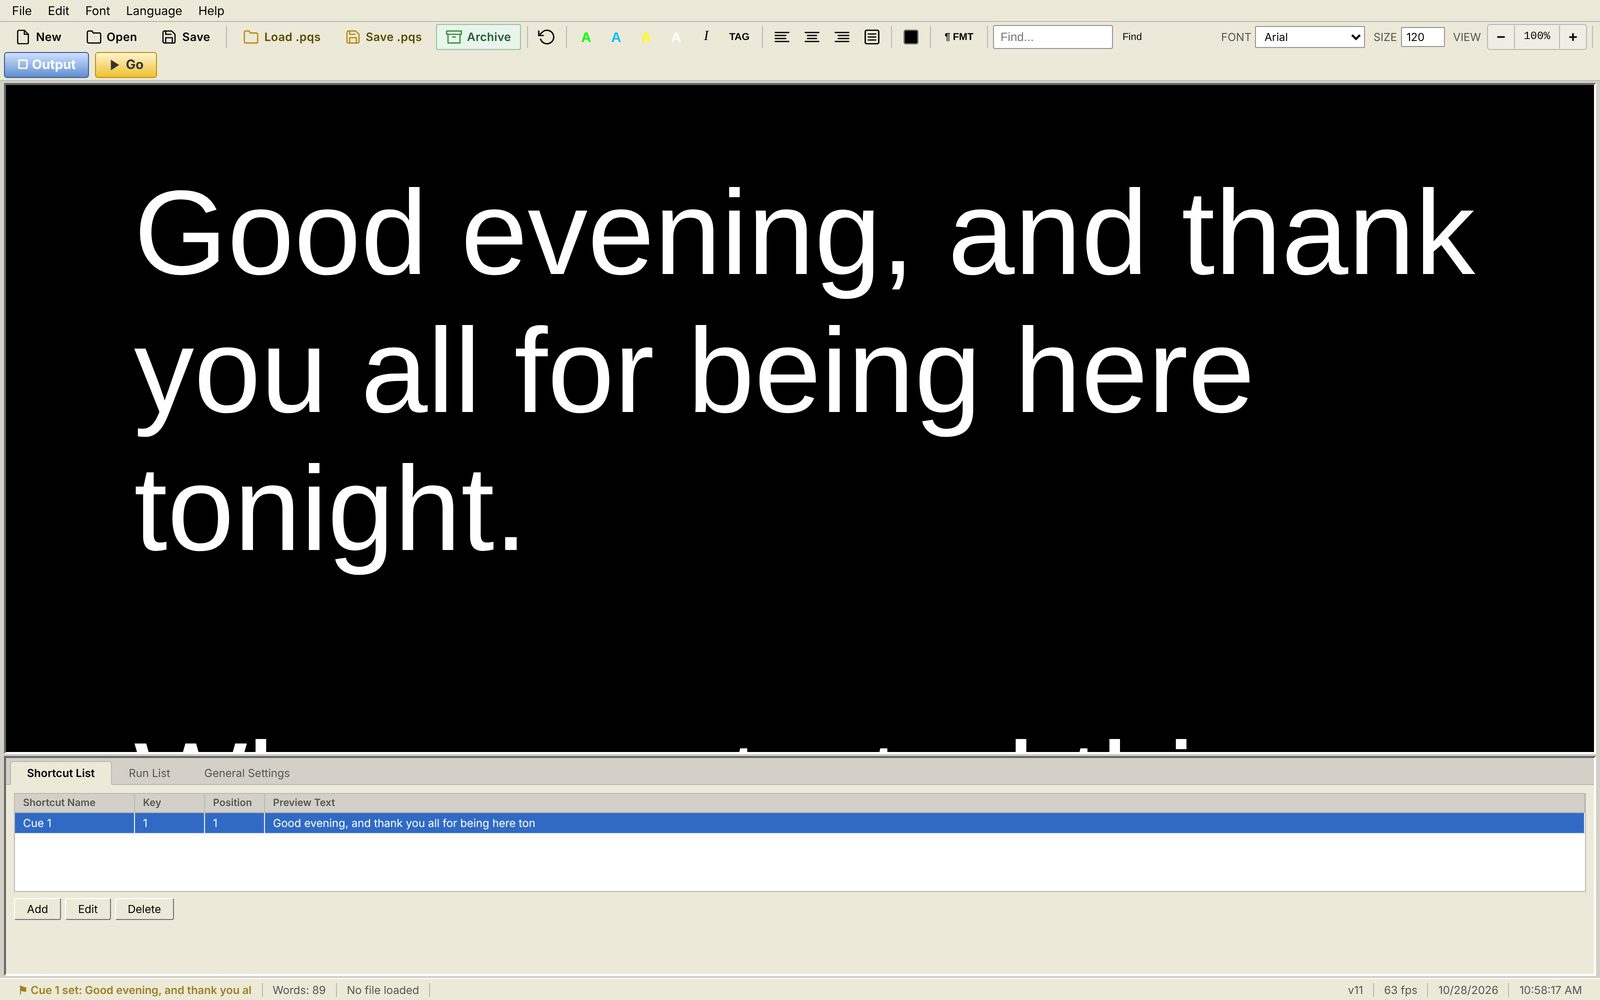
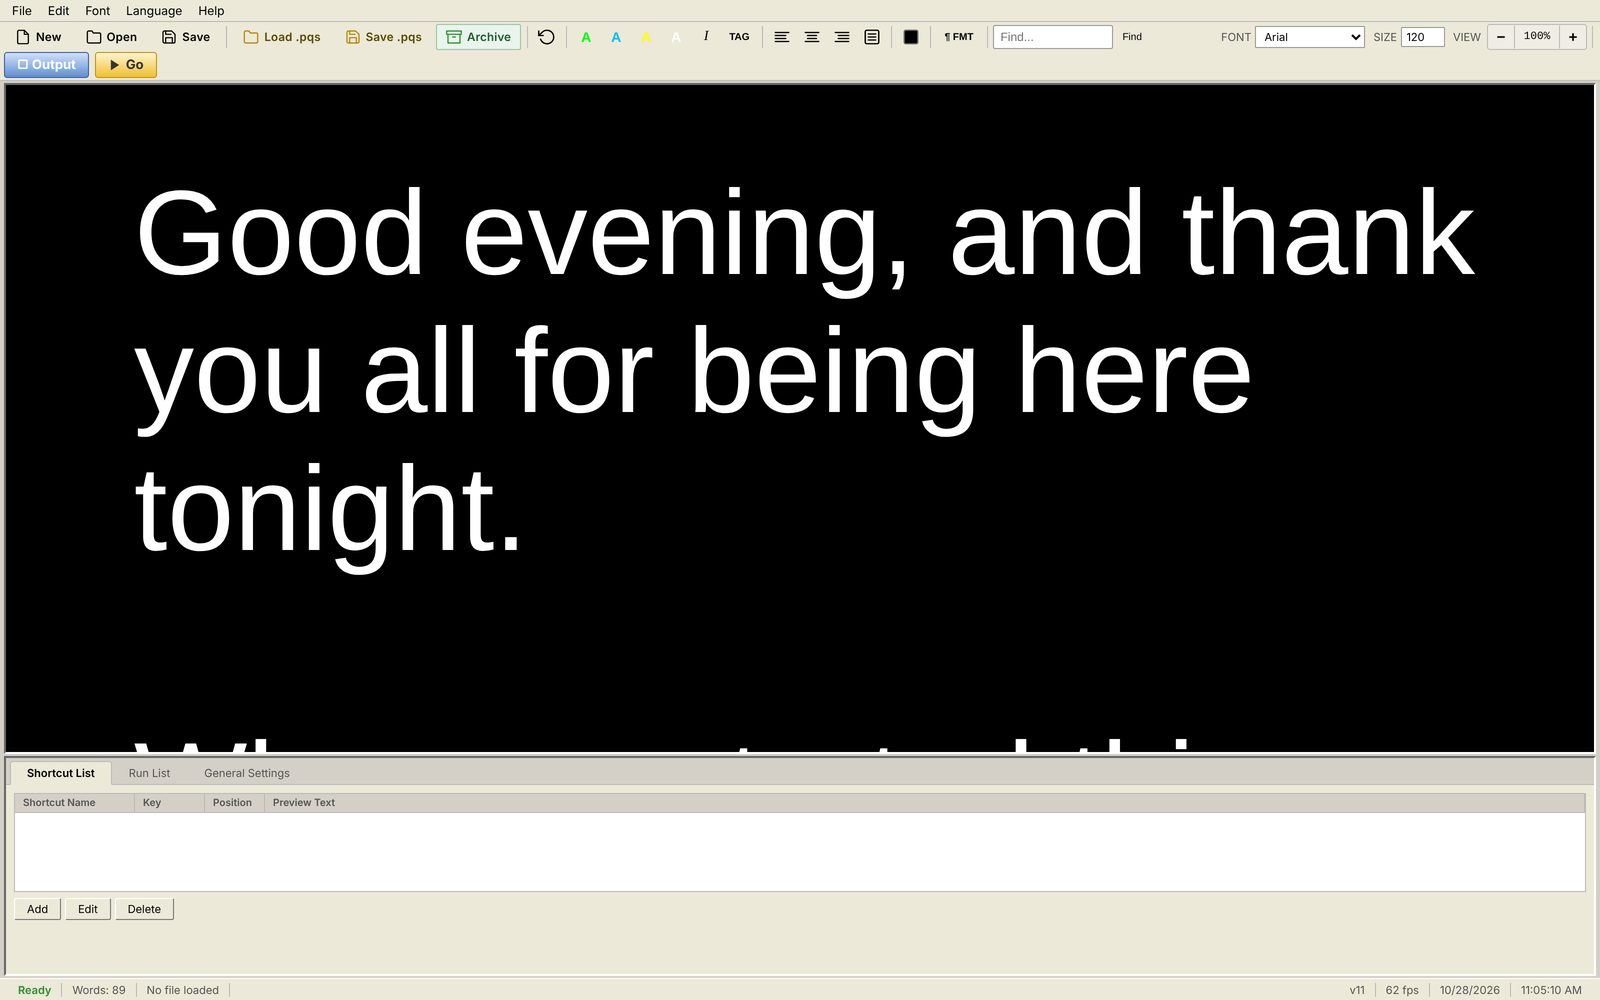
Screenshots without cue; cache-bust image URLs (#5)
Claude-Session: https://claude.ai/code/session_01SW4oYwAA8ZEcmkVZYUBX96

diff --git a/index.html b/index.html
@@ -239,8 +239,8 @@ footer a:hover{color:#fff}
     </div>
 
     <figure class="window">
-      <div class="title"><i></i><i></i><i></i><span>PrompterQ v11 — editor with a cue set on line four</span></div>
-      <img src="img/editor.jpg" width="1600" height="1000" alt="PrompterQ editor: a toolbar with New, Open, Save, Load and Save session, Archive, undo, speaker color tags, alignment, find, font and size controls; below it a black editing field showing white script text at 120 pt; at the bottom the Shortcut List, Run List and General Settings tabs." loading="lazy">
+      <div class="title"><i></i><i></i><i></i><span>PrompterQ v11 — editor</span></div>
+      <img src="img/editor.jpg?v=3" width="1600" height="1000" alt="PrompterQ editor: a toolbar with New, Open, Save, Load and Save session, Archive, undo, speaker color tags, alignment, find, font and size controls; below it a black editing field showing white script text at 120 pt; at the bottom the Shortcut List, Run List and General Settings tabs." loading="lazy">
     </figure>
     <p class="caption">The editor wraps lines exactly where the glass will wrap them. What you see on the desk is what the talent sees, pixel for pixel.</p>
   </div>
@@ -304,11 +304,11 @@ footer a:hover{color:#fff}
 
     <div class="pair">
       <figure>
-        <img src="img/running.jpg" width="1600" height="1000" alt="PrompterQ running: large white script text on a black field with the HUD reading speed 3.0, elapsed 0:15, remaining 0:34, progress 30 percent.">
+        <img src="img/running.jpg?v=3" width="1600" height="1000" alt="PrompterQ running: large white script text on a black field with the HUD reading speed 3.0, elapsed 0:15, remaining 0:34, progress 30 percent.">
         <figcaption>Operator view while running. Speed, elapsed, remaining and progress sit at the foot of the screen.</figcaption>
       </figure>
       <figure>
-        <img src="img/mirror.jpg" width="1600" height="1000" alt="PrompterQ output mirrored for the talent glass: the same script text reversed left to right, with a dim MIRROR indicator in the center.">
+        <img src="img/mirror.jpg?v=3" width="1600" height="1000" alt="PrompterQ output mirrored for the talent glass: the same script text reversed left to right, with a dim MIRROR indicator in the center.">
         <figcaption>Same output, mirrored for the glass with the M key.</figcaption>
       </figure>
     </div>
